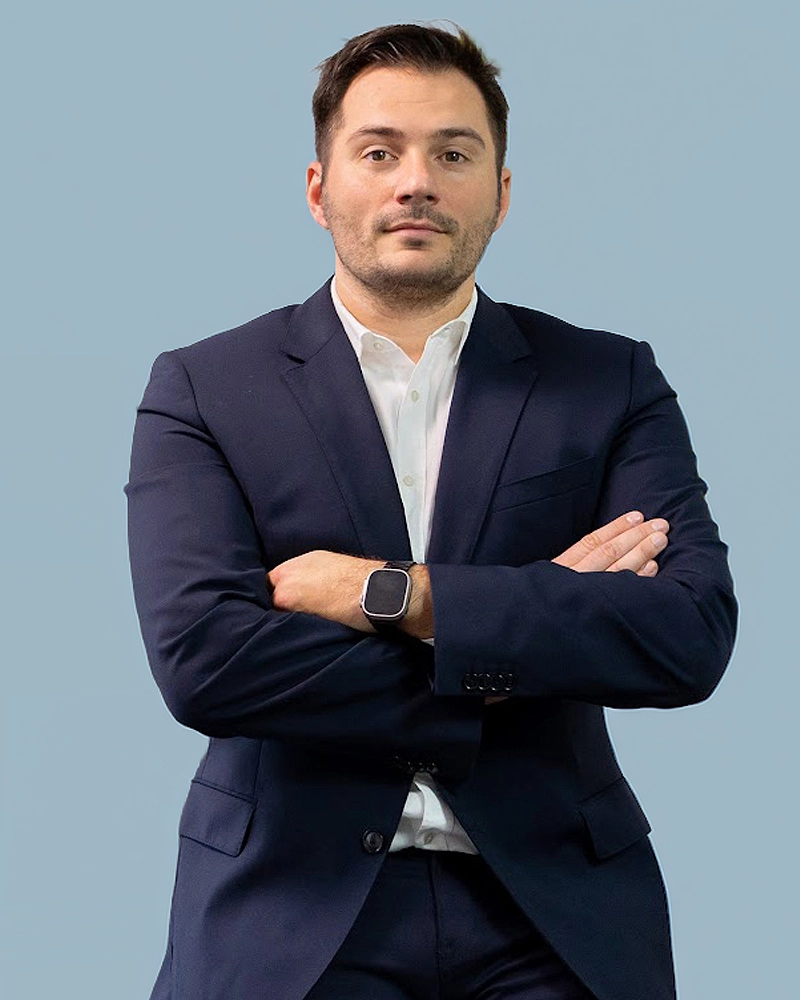
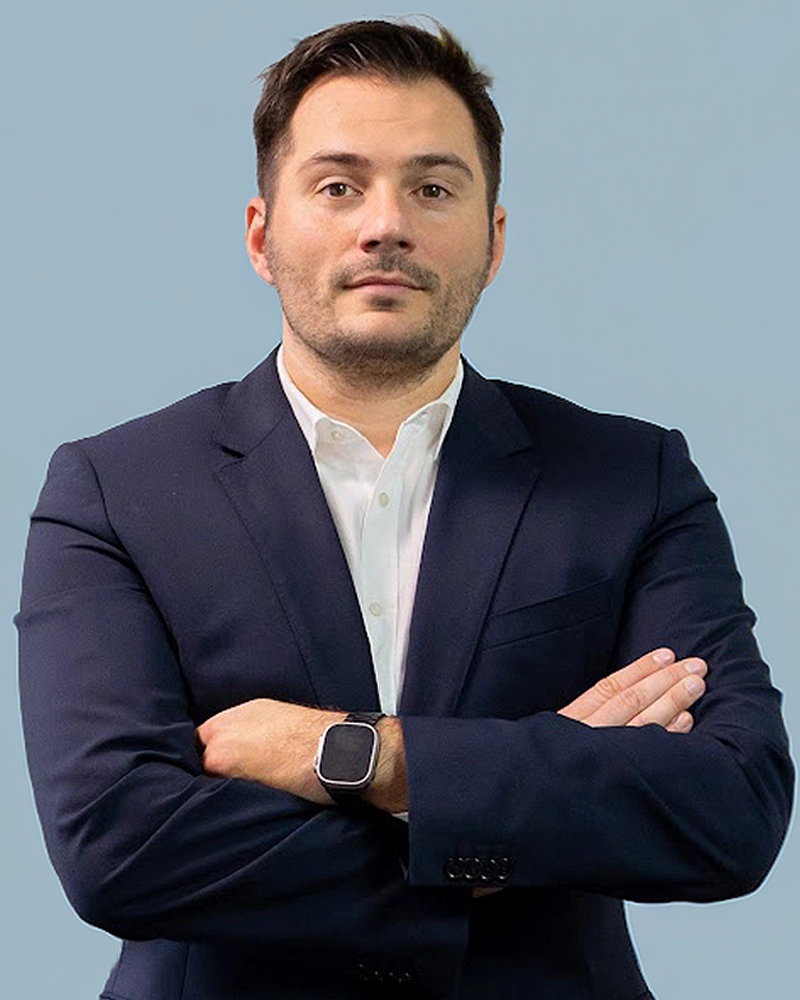
Update Bogdan photo, use on homepage about section

diff --git a/app/page.tsx b/app/page.tsx
@@ -154,8 +154,14 @@ export default function Home() {
           <div className="grid lg:grid-cols-2 gap-12 lg:gap-16 items-center">
             {/* Left — Visual */}
             <div className="relative">
-              <div className="bg-secondary rounded-2xl aspect-[3/4] max-w-md mx-auto flex items-center justify-center p-8">
-                <BookplateLockup variant="dark" width={300} />
+              <div className="rounded-2xl overflow-hidden aspect-[3/4] max-w-md mx-auto">
+                <Image
+                  src="/team-miclescu-bogdan.webp"
+                  alt="Notar public Miclescu Bogdan Constantin"
+                  width={400}
+                  height={533}
+                  className="w-full h-full object-cover object-top"
+                />
               </div>
               {/* Floating stat card */}
               <div className="absolute -bottom-6 -right-2 lg:right-4 bg-card border border-border rounded-xl p-5 shadow-lg">
